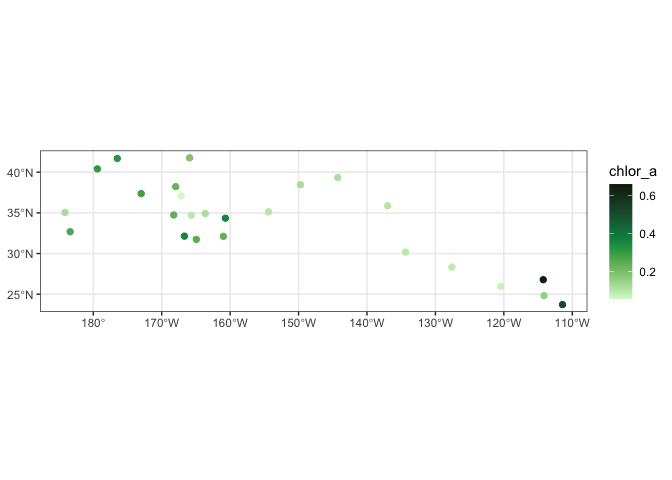
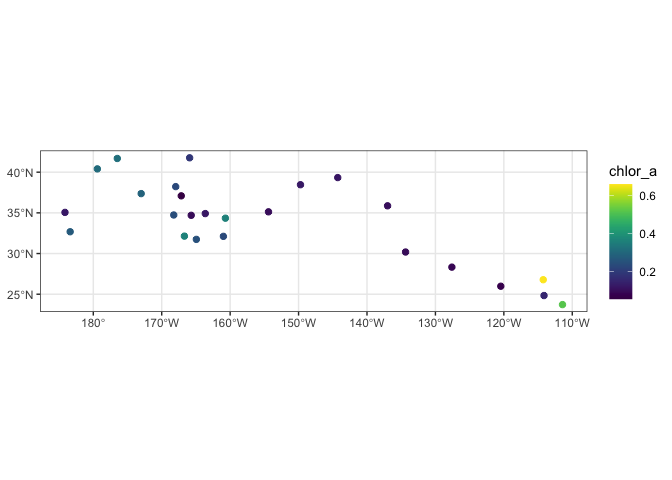
#10 incorporate requested changes to matchup-sat-data-to-track-loc R

diff --git a/matchup-satellite-data-to-track-locations/R/matchup-satellite-data-to-track-locations.md b/matchup-satellite-data-to-track-locations/R/matchup-satellite-data-to-track-locations.md
@@ -4,22 +4,22 @@ history \| Modified August 2023
 
 ## Objective
 
-This tutorial will demonstration how to extract satellite data around a
+This tutorial will demonstrate how to extract satellite data around a
 set of points defined by longitude, latitude, and time coordinates, like
-that produced by an animal telemetry tag, and ship track, or a glider
-tract.
+those produced by an animal telemetry tag, and ship track, or a glider
+track.
 
 ## The tutorial demonstrates the following techniques
 
 - Importing track data in csv file to data frame
 - Plotting the latitude/longitude points onto a map
-- Extracting satellite data along a track from ERDDAP data server
+- Extracting satellite data from an ERDDAP data server along a track
 - Plotting the satellite data onto a map
 
 ## Datasets used
 
 **Chlorophyll a concentration, the European Space Agency’s Ocean Colour
-Climate Change Initiative Monthly dataset v6.0**
+Climate Change Initiative (OC-CCI) Monthly dataset v6.0**
 
 We’ll use the European Space Agency’s OC-CCI product
 (<https://climate.esa.int/en/projects/ocean-colour/>) to obtain
@@ -51,7 +51,7 @@ pkgTest <- function(x)
 
 # Create list of required packages
 list.of.packages <- c("rerddap", "plotdap", "parsedate", "ggplot2", "rerddapXtracto",
-                       "maps", "mapdata", "RColorBrewer")
+                       "date", "maps", "mapdata", "RColorBrewer","viridis")
 
 # Create list of installed packages
 pkges = installed.packages()[,"Package"]
@@ -62,7 +62,7 @@ for (pk in list.of.packages) {
 }
 ```
 
-## Import the track data into data frame
+## Import the track data into a data frame
 
 ``` r
 # Import csv file into a data frame
@@ -85,13 +85,14 @@ mapWorld <- map_data("world", wrap=c(0,360))
 
 # Map turtle tracks
 ggplot(turtle_df, aes(mean_lon,mean_lat)) +
-  geom_path(group=1)+
+  geom_path(group=1, color="blue")+
+  geom_point(aes(x=mean_lon,y=mean_lat), pch=1, size=2 )+
   geom_point(aes(x=mean_lon[1],y=mean_lat[1]),fill="green", shape=24, size=3)+
   geom_point(aes(x=mean_lon[length(mean_lon)],y=mean_lat[length(mean_lat)]), shape=22, size=3, fill="red")+
   geom_polygon(data = mapWorld, aes(x=long, y = lat, group = group)) + 
-  coord_cartesian(xlim = c(120,260),ylim = c(15,60))+
-  labs(x="Longitude (deg)", y="Latitude (deg)", title="Turtle Track starting position (green) and ending position(red)")+
-  theme(plot.title=element_text(hjust=0.5))
+  coord_fixed(xlim = c(120,260),ylim = c(15,60))+
+  labs(x="Longitude (deg)", y="Latitude (deg)", title="Turtle Track with start (green) and end location (red)")+
+  theme(plot.title=element_text(hjust=0.5), aspect.ratio=1/2)
 ```
 
 ![](images/trackplot-1.png)<!-- -->
@@ -103,20 +104,78 @@ following steps:
 
 - Select a dataset and ERDDAP data server
 - Get data information using <code>rerddap</code> package
+- Extract data using ERDDAP URL request with latitudes and longitudes of
+  the turtle track data
 - Extract data using <code>rxtracto</code> function with latitudes and
   longitudes of the turtle track data
 - Create data frame with the satellite data and turtle tracks
 
-### Select a dataset and get Data Info using rerddap function
+## Select a dataset and get Data Info using erddap URL data request
 
-Ideally we would use a daily dataset, selecting the day correspond the
-the track data date. However, chlorophyll measurements can have lots of
-missing data, primarily due to cloud cover. To reduce data gaps and
-improve the likelihood of data for our matchups, we can use a dataset
-that combines data monthly averages.
+In this exercise, two different ways of downloading satellite data from
+ERDDAP data server are demonstrated:  
+1. request data via ERDDAP URL 2. request data by using `rerddap` R
+package
 
-**Let’s use data from the monthly version of the OC-CCI datasets.**  
-The ERDDAP URLs to the monthly version is below:  
+### Data request using ERDDAP URL
+
+First we need to set up the ERDDAP URL using the datasets ID and the
+name of the variable we are interested in. Note that we are requesting
+the data as .csv
+
+`data_url = "https://oceanwatch.pifsc.noaa.gov/erddap/griddap/aqua_chla_1d_2018_0.csv?chlor_a"`
+
+Ideally, we would work with daily data since we have one location per
+day. But chlorophyll data is severely affected by clouds (i.e. lots of
+missing data), so you might need to use weekly or even monthly data to
+get sufficient non-missing data. We will start with the monthly chl-a
+data since it contains fewer gaps.
+
+``` r
+# Set erddap address
+erddap <- "https://oceanwatch.pifsc.noaa.gov/erddap/griddap/aqua_chla_monthly_2018_0.csv?chlor_a"
+
+# Get longitude and latitude from turtle track data
+lon = turtle_df$mean_lon
+lat = turtle_df$mean_lat
+
+# Get time from turtle track data and convert into ERDDAP date format
+dates=mdy.date(turtle_df$month,turtle_df$day,turtle_df$year)
+dates2 = format(as.Date(dates), "%Y-%m-%d")
+
+# Initatilize tot variable where data will be downloaded to
+tot = rep(NA, 4)
+
+# Loop through each turtle track data
+for (i in 1:dim(turtle_df)[1]) {
+
+   # Create erddap URL by adding lat, lon, dates of each track point 
+   url = paste(erddap, "[(", dates2[i], "):1:(", dates2[i], ")][(", lat[i], "):1:(", lat[i], ")][(", lon[i], "):1:(", lon[i], ")]", sep = "")  
+   
+   # Request and load satelite data from ERDDAP
+   new = read.csv(url, skip=2, header = FALSE) 
+   
+   # Append the data
+   tot = rbind(tot, new)   
+}
+
+# Delete the first row (default column names)
+tot = tot[-1, ]
+
+# Rename columns
+names(tot) = c("chlo_date", "matched_lat", "matched_lon", "matched_chl.m")
+
+# Create data frame combining turtle track data and the chlo-a data
+result = data.frame(turtle_df, tot)
+
+# Write the data frame to csv file
+write.csv(result, 'turtle-track-chl.m.csv', row.names = FALSE)
+```
+
+### Data request using \``rerddap` function
+
+**Let’s use data from the monthly product of the OC-CCI datasets.**  
+The ERDDAP URLs to the monthly product is below:  
 <https://oceanwatch.pifsc.noaa.gov/erddap/griddap/esa-cci-chla-monthly-v6-0>
 
 **A note on dataset selection**  
@@ -145,7 +204,14 @@ dataset <- 'esa-cci-chla-monthly-v6-0'
 
 # Get data information from ERDDAP server
 dataInfo <- rerddap::info(dataset, url= "https://oceanwatch.pifsc.noaa.gov/erddap")
+```
 
+## Examine metadata
+
+`rerddap::info` returns metadata of the requested dataset. We can first
+understand the attributes dataInfo includes then examine each attribute.
+
+``` r
 # Display the metadata
 dataInfo
 ```
@@ -170,25 +236,61 @@ dataInfo
     ##      total_nobs_sum: 
     ##      VIIRS_nobs_sum:
 
-### Extract data using rxtracto function
+``` r
+# Display data attributes
+names(dataInfo)
+```
 
-First we need to define the bounding box within which to search for
-coordinates. The **rxtracto** function allow you to set the size of the
-box used to collect data around the track points using the xlen and ylen
-arguments. The values for xlen and ylen are in degrees. For our example
-we 0.2 degrees for both arguments. Note: You can also submit vectors for
-xlen and ylen, as long as the are the same length as xcoord, ycoord, and
-tcoord.
+    ## [1] "variables" "alldata"   "base_url"
 
 ``` r
-# Set variable name we are interested to extract from satellite data
+# Examine attribute: variables
+dataInfo$variables
+```
+
+    ##         variable_name data_type actual_range
+    ## 1             chlor_a     float             
+    ## 2  chlor_a_log10_bias     float             
+    ## 3  chlor_a_log10_rmsd     float             
+    ## 4      MERIS_nobs_sum     float             
+    ## 5     MODISA_nobs_sum     float             
+    ## 6     OLCI_A_nobs_sum     float             
+    ## 7     OLCI_B_nobs_sum     float             
+    ## 8    SeaWiFS_nobs_sum     float             
+    ## 9      total_nobs_sum     float             
+    ## 10     VIIRS_nobs_sum     float
+
+``` r
+# Distribute attributes of dataInfo$alldata
+names(dataInfo$alldata)
+```
+
+    ##  [1] "NC_GLOBAL"          "time"               "latitude"          
+    ##  [4] "longitude"          "chlor_a"            "MERIS_nobs_sum"    
+    ##  [7] "MODISA_nobs_sum"    "OLCI_A_nobs_sum"    "OLCI_B_nobs_sum"   
+    ## [10] "SeaWiFS_nobs_sum"   "VIIRS_nobs_sum"     "chlor_a_log10_bias"
+    ## [13] "chlor_a_log10_rmsd" "total_nobs_sum"
+
+### Extract data using the rxtracto function
+
+First we need to define the bounding box within which to search for
+coordinates. The **rxtracto** function allows you to set the size of the
+box used to collect data around the track points using the xlen and ylen
+arguments. The values for xlen and ylen are in degrees. For our example,
+we can use 0.2 degrees for both arguments. Note: You can also submit
+vectors for xlen and ylen, as long as they are the same length as
+xcoord, ycoord, and tcoord if you want to set a different search radius
+around each track point.
+
+``` r
+# Set the variable we want to extract data from:
 parameter <- 'chlor_a'
 
 # Set xlen, ylen to 0.2 degree
 xlen <- 0.2 
 ylen <- 0.2
 
-# Create date column using year, month and day
+# Create date column using year, month and day in a format ERDDAP will understand (eg. 2008-12-15)
 turtle_df$date <- as.Date(paste(turtle_df$year, turtle_df$month, turtle_df$day, sep="-"))
 
 # Get variables x, y, t coordinates from turtle track data
@@ -203,7 +305,7 @@ chl_grid <- rxtracto(dataInfo,
                   tcoord=tcoords, xlen=xlen, ylen=ylen)
 ```
 
-## Check variables extracted using rxtracto
+## Check the output of the rxtracto function
 
 ``` r
 # Check all variables extracted using rxtracto
@@ -295,10 +397,15 @@ chl_grid
     ## attr(,"class")
     ## [1] "list"          "rxtractoTrack"
 
-### Plot a histogram of the chlorophyll data
+**rxtracto** computes statistics using all the pixels found in the
+search radius around each track point. Because chl-a concentration tends
+to have very high values and very low values, we will work with the
+median value around wach track point, **median chlor_a**
+
+### Plot a histogram of median chlor_a
 
 ``` r
-chlora <- chl_grid$"mean chlor_a"
+chlora <- chl_grid$"median chlor_a"
 
 # Histogram of Chlor_a
 hist(chlora,
@@ -310,8 +417,8 @@ hist(chlora,
 )
 ```
 
-![](images/hist-1.png)<!-- -->
-\## Plot a histogram of the log of the chlorophyll data
+![](images/hist-1.png)<!-- --> \## Plot a histogram of the log of the
+chlorophyll data
 
 ``` r
 # Histogram of Log of Chlor_a
@@ -324,21 +431,21 @@ hist(log(chlora),
 )
 ```
 
-![](images/loghist-1.png)<!-- -->
-After the log transformation the data look more normal. The range of log
-chlorophyll is about -2.9 to -0.3 but most of the values are between
--2.5 and -0.8. Knowing the distribution of values can also help to set
-the color bar range for our map.
+![](images/loghist-1.png)<!-- --> After the log transformation the data
+looks more normally distributed. The range of log chlorophyll is about
+-2.9 to -0.3 but most of the values are between -2.5 and -0.8. Knowing
+the distribution of the values can also help to set the color bar range
+for our map.
 
 ## Plotting the results using plotTrack
 
 We will use the “plotTrack” function to plot the results. “plotTrack” is
 a function of the “rerddapXtracto” package designed specifically to plot
-the results from “rxtracto”.
+the results from “rxtracto”. However it’s not very customizable.
 
 ``` r
 # Plot tracks with color: algae specifically designed for chlorophyll
-plotTrack(chl_grid, xcoords, ycoords, tcoords, size=3, plotColor = 'algae')
+plotTrack(chl_grid, xcoords, ycoords, tcoords, size=3, plotColor = 'viridis')
 ```
 
     ## Warning in latlon_adjust(table): Invalid longitude values
@@ -353,7 +460,7 @@ window once the encoding to gif is done.
 
 ``` r
 # Animate tracks
-plotTrack(chl_grid, xcoords, ycoords, tcoords, plotColor = 'algae',
+plotTrack(chl_grid, xcoords, ycoords, tcoords, plotColor = 'viridis',
                     animate = TRUE, cumulative = TRUE)
 ```
 
@@ -361,13 +468,13 @@ plotTrack(chl_grid, xcoords, ycoords, tcoords, plotColor = 'algae',
 
 ## Plotting the results using ggplot
 
-### Create a data frame with turtle track and chlor-a
+### Create a data frame with the turtle track and the output of rxtracto
 
 We will first create a data frame that contains longitudes and latitudes
 from the turtle and associated satellite chlor-a values.
 
 ``` r
-# Create a data frame coords from turtle and chlora values 
+# Create a data frame of coords from turtle and chlora values 
 new_df <- as.data.frame(cbind(xcoords, ycoords,  chl_grid$`requested lon min`, chl_grid$`requested lon max`, chl_grid$`requested lat min`, chl_grid$`requested lon max`,  chlora))
 
 # Set variable names
@@ -375,7 +482,7 @@ names(new_df) <- c("Lon", "Lat", "Matchup_Lon_Lower", "Matchup_Lon_Upper", "Matc
 write.csv(new_df, "matchup_df.csv")
 ```
 
-### Plot using ggplot and data in the new dataframe
+### Plot using ggplot
 
 ``` r
 # Import world map
@@ -383,10 +490,10 @@ mapWorld <- map_data("world", wrap=c(0,360))
 
 # Draw the track positions with associated chlora values
 ggplot(new_df) +
-  geom_point(aes(Lon,Lat,color=Chlor_a)) +
+  geom_point(aes(Lon,Lat,color=log(Chlor_a))) +
   geom_polygon(data = mapWorld, aes(x=long, y = lat, group = group)) + 
-  coord_cartesian(xlim = c(120,260),ylim = c(15,60)) +
-  scale_color_gradientn(colours=brewer.pal(n = 8, name = "YlGn")) +
+  coord_fixed(xlim = c(120,260),ylim = c(15,60)) +
+  scale_color_viridis(discrete = FALSE) +
   labs(x="Longitude (deg)", y="Latitude (deg)", title="Turtle Track with chlor-a values")+
   theme(plot.title=element_text(hjust=0.5))
 ```
@@ -400,7 +507,7 @@ ggplot(new_df) +
 Repeat the steps above with a different dataset. For example, extract
 sea surface temperature data using the following dataset:
 <https://coastwatch.pfeg.noaa.gov/erddap/griddap/nesdisGeoPolarSSTN5NRT_Lon0360.html>  
-\* This dataset is a different ERDDAP, so remember the change the base
+\* This dataset is a different ERDDAP, so remember to change the base
 URL. \* Set the new dataset ID and variable name.
 
 ##### Exercise 2:
@@ -409,7 +516,7 @@ Go to an ERDDAP of your choice, find a dataset of interest, generate the
 URL, copy it and edit the script above to run a match up on that
 dataset. To find other ERDDAP servers, you can use this search engine:
 <http://erddap.com/>  
-\* This dataset will likely be on a different ERDDAP, so remember the
+\* This dataset will likely be on a different ERDDAP, so remember to
 change the base URL. \* Set the new dataset ID and variable name. \*
 Check the metadata to make sure the dataset covers the spatial and
 temporal range of the track dataset.
@@ -418,4 +525,4 @@ temporal range of the track dataset.
 
 Repeat the steps above with a daily version of the OC-CCI dataset to see
 how cloud cover can reduce the data you retrieve.
-<https://oceanwatch.pifsc.noaa.gov/erddap/griddap/CRW_sst_v1_0.html>
+<https://coastwatch.pfeg.noaa.gov/erddap/griddap/pmlEsaCCI60OceanColorDaily_Lon0360.html>
